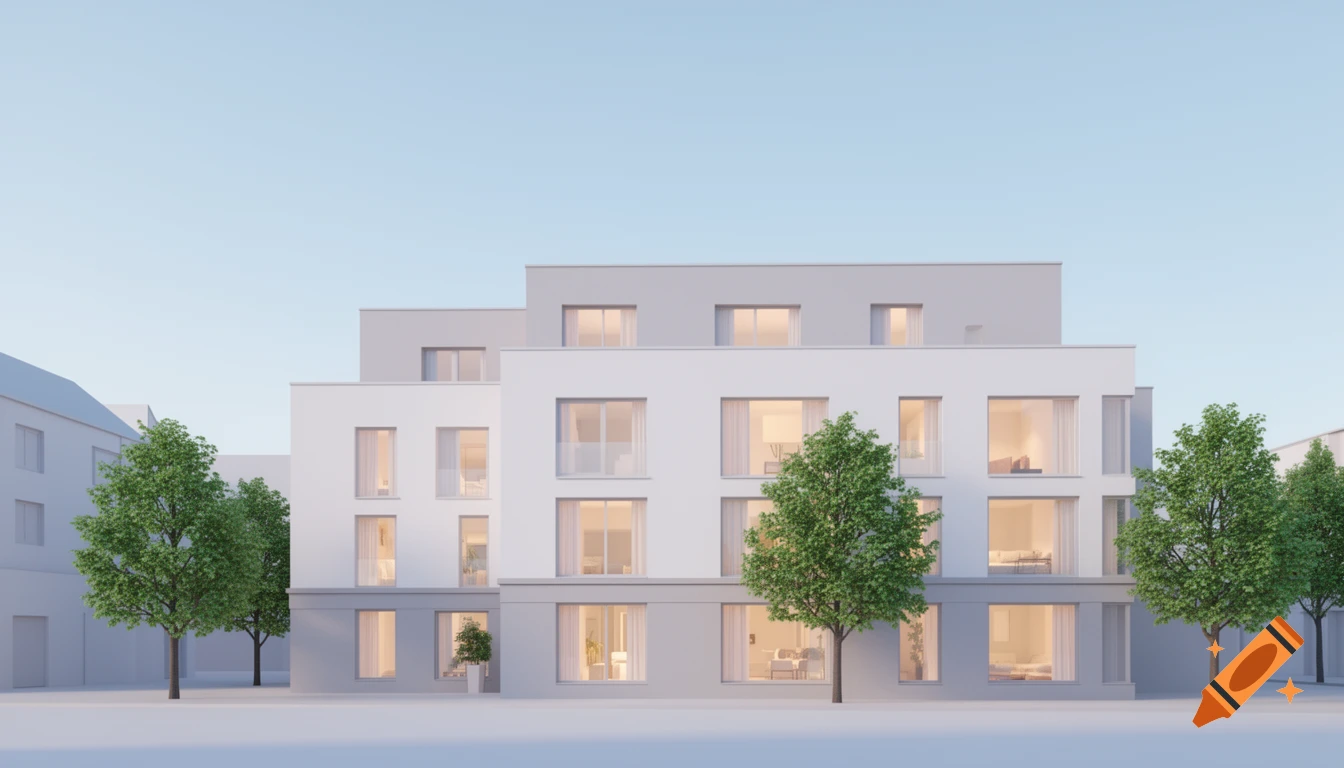
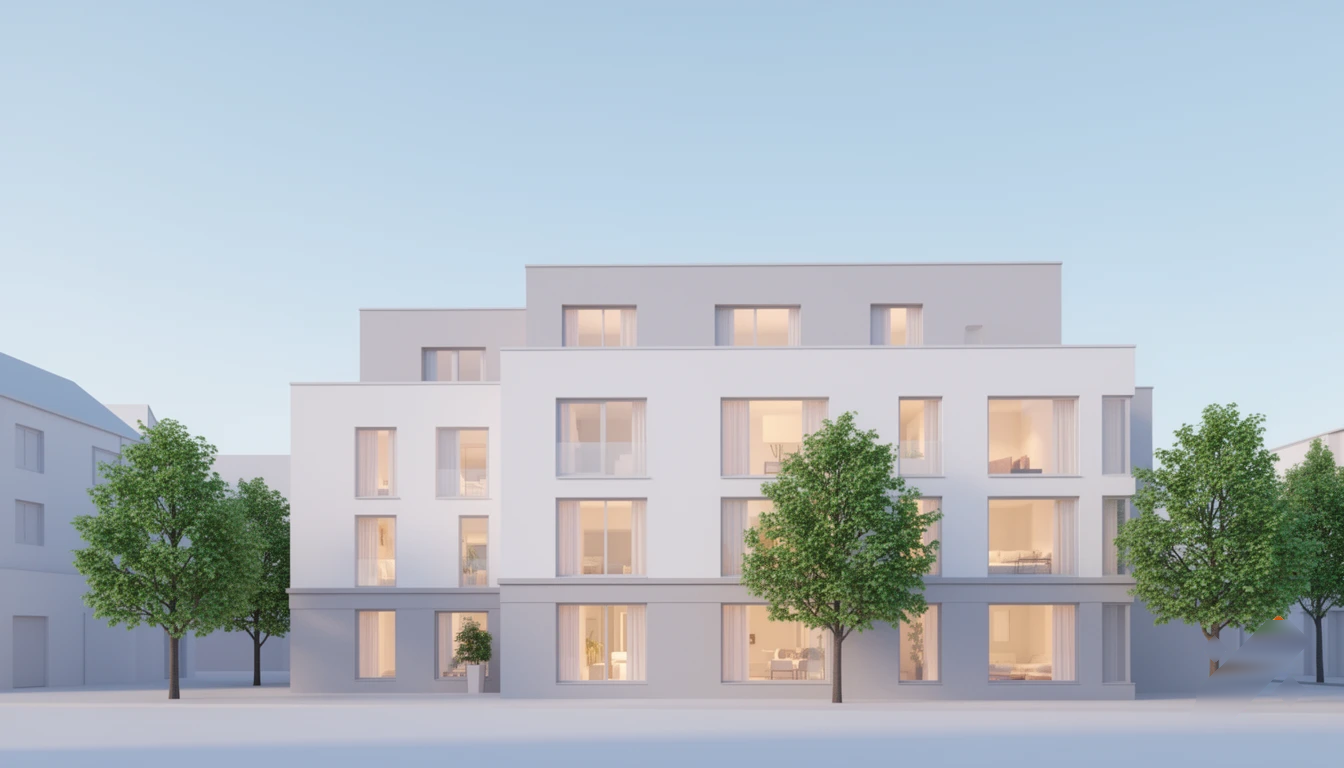
fix: full-screen hero, apartment API URL, Ukrainian defaults, remove crayon
- page.tsx: rewrite to full-screen background with dark overlay
  (was side-by-side split layout, now covers entire viewport)
- page.tsx: change default hero text to Ukrainian
  ("Ласкаво просимо до Skandi Apartments" / "Ви новий мешканець?")
- apartmentApiSlice: fix endpoint URL /my-apartment/ → /my-apartments/
  (singular URL caused 404, breaking issue submission form)
- hero-welcome.png: remove crayon/pencil artifact from bottom-right

Changed region(s): [[0.875, 0.8125, 0.9688, 0.9688]]

diff --git a/client/src/app/page.tsx b/client/src/app/page.tsx
@@ -27,10 +27,10 @@ interface SiteSettings {
 }
 
 const DEFAULTS: SiteSettings = {
-	hero_title: "Welcome to Skandi Apartments",
-	hero_subtitle: "Are you a new tenant? Or an existing tenant?",
+	hero_title: "Ласкаво просимо до Skandi Apartments",
+	hero_subtitle: "Ви новий мешканець? Або вже зареєстровані?",
 	hero_image_url: null,
-	cta_text: "Create Your Account",
+	cta_text: "Створити акаунт",
 	cta_url: "/register",
 	links: [],
 };
@@ -54,31 +54,40 @@ export default async function HomePage() {
 	const settings = await getSiteSettings();
 
 	return (
-		<div className="relative h-screen w-full overflow-hidden bg-gradient-to-br from-slate-900 via-slate-800 to-slate-900">
-			{/* Full-screen photo fallback (CMS override) */}
-			{settings.hero_image_url && (
-				<>
+		<div className="relative h-screen">
+			{/* Full-screen background image */}
+			<div className="absolute inset-0 z-0">
+				{settings.hero_image_url ? (
 					<img
 						src={settings.hero_image_url}
 						alt="Hero"
-						className="absolute inset-0 h-full w-full object-cover object-center"
+						className="h-full w-full object-cover object-center"
 					/>
-					<div className="absolute inset-0 z-10 bg-black/40" />
-				</>
-			)}
+				) : (
+					<Image
+						src="/assets/images/hero/hero-welcome.png"
+						alt="Skandi Apartments"
+						fill
+						style={{ objectFit: "cover", objectPosition: "center" }}
+						priority
+					/>
+				)}
+			</div>
 
-			{/* Split layout: text left, illustration right */}
-			<main className="relative z-20 flex h-full items-center">
-				{/* Left — text content */}
-				<div className="flex w-full flex-col items-center justify-center px-6 text-center sm:w-1/2 sm:items-start sm:text-left sm:pl-12 lg:pl-20">
-					<h1 className="font-robotoSlab mb-4 text-4xl font-semibold text-cyan-400 antialiased sm:text-5xl lg:text-7xl">
+			{/* Dark overlay */}
+			<div className="absolute inset-0 z-10 bg-black/50" />
+
+			{/* Content */}
+			<main className="flex-center relative z-20 h-full">
+				<div className="text-center">
+					<h1 className="font-robotoSlab mb-4 text-4xl font-semibold text-cyan-400 antialiased sm:text-6xl md:text-8xl">
 						{settings.hero_title}
 					</h1>
-					<p className="my-6 text-xl text-teal-300 sm:text-2xl">
+					<p className="my-8 text-2xl text-teal-300 sm:text-4xl">
 						{settings.hero_subtitle}
 					</p>
 					<Link href={settings.cta_url} prefetch={false}>
-						<button className="bg-asparagus rounded-3xl px-6 py-3 text-lg font-semibold text-white hover:bg-lime-700 sm:text-xl">
+						<button className="bg-asparagus rounded-3xl px-4 py-2 text-lg font-semibold text-white hover:bg-lime-700 sm:px-6 sm:text-2xl">
 							<span className="inline-flex items-center">
 								{settings.cta_text}
 								<ArrowRightIcon className="ml-2 size-6" />
@@ -88,7 +97,7 @@ export default async function HomePage() {
 
 					{/* Quick links from admin */}
 					{settings.links.length > 0 && (
-						<div className="mt-8 flex flex-wrap justify-center gap-4 sm:justify-start">
+						<div className="mt-8 flex flex-wrap justify-center gap-4">
 							{settings.links.map((link) => (
 								<Link
 									key={link.id}
@@ -102,19 +111,6 @@ export default async function HomePage() {
 							))}
 						</div>
 					)}
-				</div>
-
-				{/* Right — illustration */}
-				<div className="hidden sm:flex sm:w-1/2 items-center justify-center pr-8 lg:pr-16">
-					<Image
-						src="/assets/images/hero/hero-welcome.png"
-						alt="Skandi Apartments building"
-						width={600}
-						height={500}
-						className="w-full max-w-lg drop-shadow-2xl"
-						priority
-						unoptimized
-					/>
 				</div>
 			</main>
 		</div>

diff --git a/client/src/lib/redux/features/apartment/apartmentApiSlice.ts b/client/src/lib/redux/features/apartment/apartmentApiSlice.ts
@@ -13,7 +13,7 @@ export const apartmentApiSlice = baseApiSlice.injectEndpoints({
 		}),
 
 		getMyApartment: builder.query<ApartmentResponse, void>({
-			query: () => "/apartments/my-apartment/",
+			query: () => "/apartments/my-apartments/",
 			providesTags: ["Apartment"],
 		}),
 
